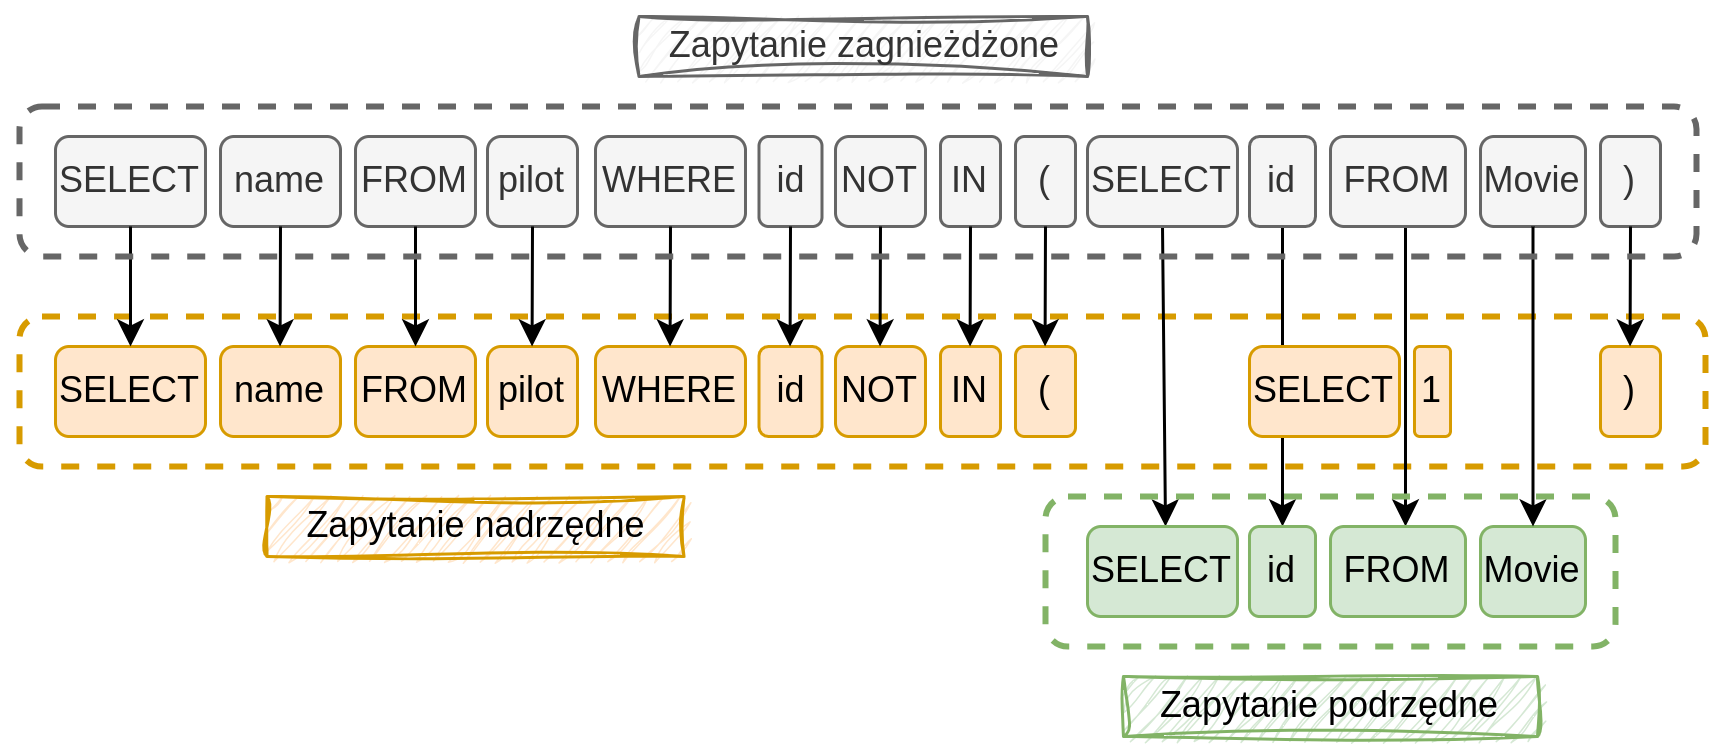
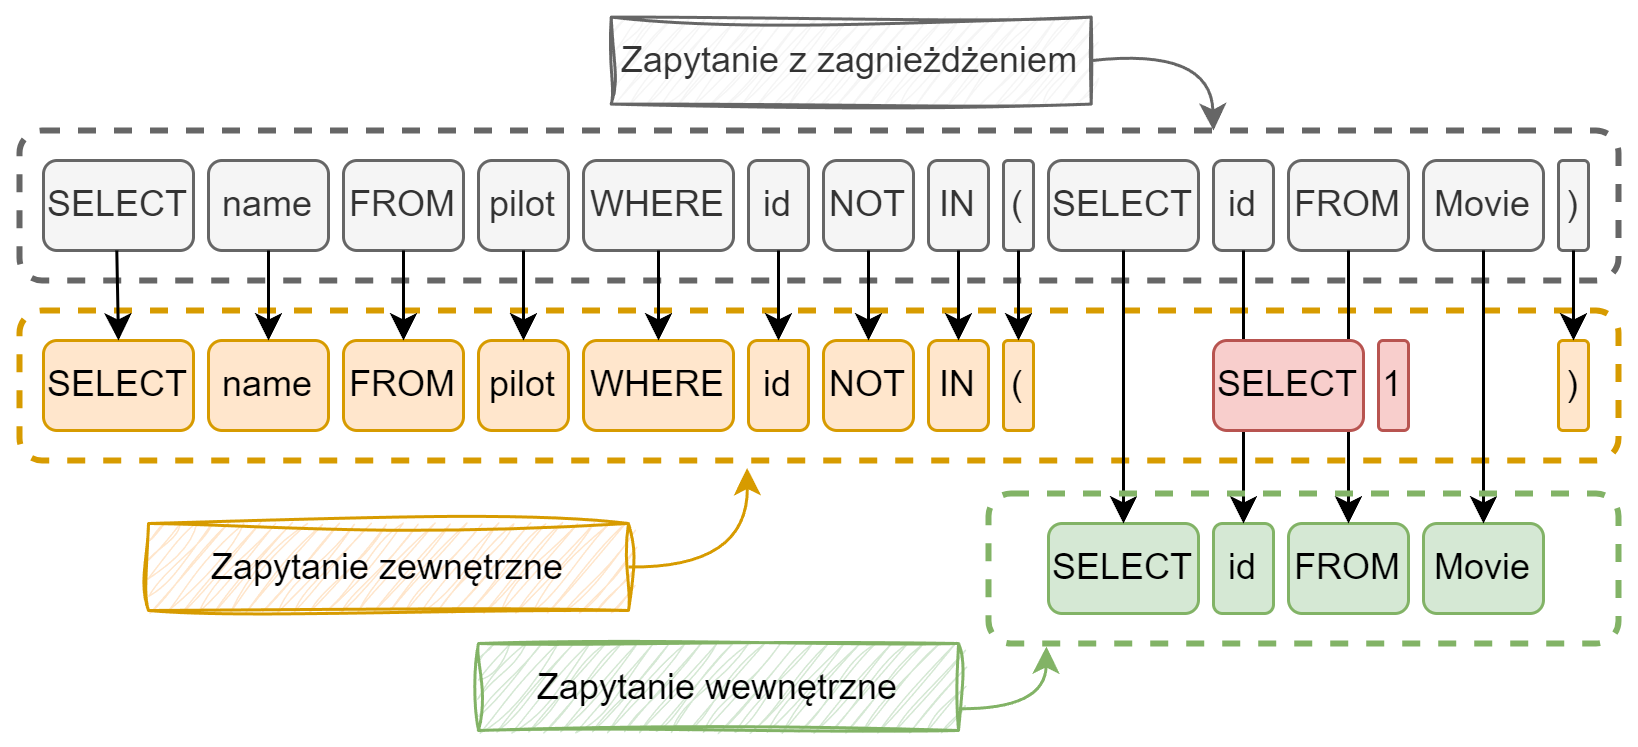
Update

Changed region(s): [[0.0, 0.0, 0.9963, 0.9853], [0.9652, 0.8313, 0.9963, 0.8621], [0.4359, 0.7082, 0.467, 0.739]]

diff --git a/chapters/tworzenie_zbiorow.tex b/chapters/tworzenie_zbiorow.tex
@@ -114,22 +114,11 @@ Zmiana nazw tabel i kolumn zgodnie z określonym mapowaniem to dla opracowanego 
 Zmodyfikowanie nazw tabel i kolumn w bazach danych nie stanowi dużego wyzwania, ponieważ wystarczy wykonać na każdej z nich serię instrukcji typu \sql{ALTER TABLE}. Przystępując do tego należy jednak upewnić się, że zastosowanie danego mapowanie nie tworzy konfliktujących ze sobą pod względem nazw elementów, bo wówczas operacja się nie powiedzie. Aby to sprawdzić oraz zlokalizować miejsca ewentualnych kolizji stworzony został skrypt, który analizuje podane mapowanie pod tym kątem. Podczas tłumaczenia zauważono także, że należy pomijać tabele o nazwie \code{sqlite\_sequence}, ponieważ jest to specjalna tabela i jej modyfikacja nie jest możliwa.
 
 \subsubsection{Modyfikacje w zapytaniach}
-Dokonanie podmiany nazw tabel i kolumn w zapytaniach SQL stanowi najtrudniejszy etap w całym procesie generowania zbiorów. Przyczyną tego jest przyjęte podejście polegające na tym, że dana kolumna może być przetłumaczona na różne sposoby, w zależności od tabeli w której się znajduję. W przypadku modyfikacji baz danych było oczywistym do której tabeli należy każda kolumna, bo wynika to z ich jasno zdefiniowanej struktury. Zapytania SQL są natomiast w gruncie rzeczy zwykłymi tekstami i wydobycie z nich kolumn oraz ustalenie tabel do których należą stanowi duże wyzwanie.
+Dokonanie podmiany nazw tabel i kolumn w zapytaniach SQL stanowi najtrudniejszy etap w całym procesie generowania zbiorów. Przyczyną tego jest przyjęte podejście polegające na tym, że dana kolumna może być przetłumaczona na różne sposoby, w zależności od tabeli w której się znajduję. W przypadku modyfikacji baz danych było oczywistym do której tabeli należy każda kolumna, bo wynika to z ich jasno zdefiniowanej struktury. Zapytania SQL są natomiast w gruncie rzeczy zwykłym tekstem i wydobycie z nich kolumn oraz ustalenie tabel do których należą stanowi duże wyzwanie.
 
-Najłatwiejsze podejście do tego problemu, ale posiadające istotny problem, wykorzystuje parsowanie zapytań do postaci drzewa AST (ang. Abstract Syntax Tree). Jest to sposób reprezentacji wyrażenia w języku formalnym, takim jak SQL, za pomocą drzewa, którego przykład został przedstawiony na rysunku \ref{fig:ast-example}. Można z niego wygodnie wydobywać różne informacje, czy też dokonywać modyfikacji. Warto więc na jego poziomie przeprowadzić tłumaczenia nazw, a następnie odwrócić proces parsowania i uzyskać dla zapytania zmodyfikowaną postać tekstową. W wykorzystanym języku Python istnieje popularna biblioteka \code{sqlglot}, która pozwala na wykonywanie tego typu operacji. 
+Najłatwiejsze podejście do tego problemu, ale posiadające istotny problem, wykorzystuje parsowanie zapytań do postaci drzew AST z użyciem przedstawionej wcześniej biblioteki \code{sqlglot}. Na poziomie drzewa można bowiem łatwo dokonać modyfikacji wszystkich nazw, bo ustalenie przynależności kolumn do tabel jest proste. Finalnie można przeprowadzić proces odwrotny do parsowania, czyli z postaci zmodyfikowanego drzewa zrekonstruować zapytanie, które będzie posiadało pożądane zmiany. Jak zostało sprawdzone, strategia ta rzeczywiście pozwala na skuteczne przetłumaczenie nazw schematu, jednak wspomnianym problemem jest to, że przetworzone zapytania różnią się od oryginałów formatowaniem i delikatnie zmienioną strukturą. Powodem jest to, że następujące po sobie etapy parsowania i rekonstrukcji z wykorzystaniem biblioteki \code{sqlglot} zachowują jedynie znaczenie zapytań, pozwalając sobie przy tym na delikatne modyfikacje zapisu. Zmienione zapytania odbiegają więc nadmiernie od oryginalnych i porównywanie stworzonego tak zbioru z oryginalnym mogło by być kwestionowane. Ponadto wiele algorytmów opiera się na specyficznym dla poszczególnych zbiorów formacie zapytań i jego modyfikacja doprowadziłaby do problemów z uruchomieniem wielu modeli. Z przytoczonych powodów porzucono to podejście.
 
-\begin{figure}[ht!]
-  \centering
-  \includegraphics[width=0.6\linewidth]{images/ast_example.png}
-  \caption{Drzewo AST dla przykładowego zapytania SQL}
-  \label{fig:ast-example}
-\end{figure}
-
-Wspomnianym problemem z wykorzystaniem AST jest to, że przetłumaczone z wykorzystaniem biblioteki \code{sqlglot} zapytania, chociaż pod względem semantycznym pozostają bez zmian, to modyfikacji ulega ich formatowanie - następuje zmiana sposobu nawiasowania, czy też stawiania białych znaków. Przekonwertowane w ten sposób zapytania odbiegają więc istotnie od oryginalnych i porównywanie takiego zbioru z oryginalnym \code{Spider} mogło by być kwestionowane. Ponadto wiele algorytmów opiera się na specyficznym dla zbioru \code{Spider} formacie zapytań i jego modyfikacja doprowadziła by do problemów z uruchomieniem wielu modeli. Z przytoczonych powodów porzucono to podejście.
-
-W celu dokonania modyfikacji schematu w zapytaniach, bez niepotrzebnego wpływania na ich strukturę, zdecydowano się ostatecznie zrobić to na niższym poziomie. W tym celu opracowano algorytm, który najpierw dokonuje tokenizacji zapytań, a następnie analizuje wszystkie tokeny po kolei i jeżeli trafi na nazwę kolumny lub tabeli to dokonuję podmiany na nową nazwę. Aby sprawdzić, czy dany token jest nazwą kolumny lub tabeli dokonywano parsowania zapytania do AST, następnie zmieniano dany token na inny i ponownie parsowano zapytanie do AST. Porównując ze sobą te dwa drzewa AST można było ustalić, czy zmodyfikowanym tokenem była nazwa tabeli, nazwa kolumny, czy żadne z powyższych.
-
-W celu przetłumaczenia nazwy kolumny należało dodatkowo ustalić, do jakiej tabeli ona należy. Aby to zrobić konieczne było rozpatrzenie trzech możliwych przypadków:
+W celu przetłumaczenia nazw w zapytaniach, bez niepotrzebnego wpływania na ich strukturę, zdecydowano się ostatecznie zrobić to na niższym poziomie. Opracowany został algorytm, który najpierw dokonuje tokenizacji zapytań, a następnie analizuje wszystkie tokeny po kolei i jeżeli wykryje nazwę tabeli bądź kolumny to podmienia ją na nową. Aby sprawdzić, czy dany token jest nazwą dokonywano parsowania zapytania do AST, następnie modyfikowano go na inny i ponownie parsowano zapytanie do AST. Porównując ze sobą dwa drzewa można było ustalić, czy zmodyfikowanym tokenem była nazwa tabeli, nazwa kolumny, czy żadne z powyższych. W przypadku nazw kolumn konieczne było dodatkowo ustalenie przynależności do tabeli. Wyróżniono tutaj trzy przypadki:
 
 \begin{enumerate}
     \item Nazwa kolumny poprzedzona nazwą tabeli (\sql{SELECT order.id FROM order})
@@ -137,10 +126,10 @@ W celu przetłumaczenia nazwy kolumny należało dodatkowo ustalić, do jakiej t
     \item Nazwa kolumny bez tabeli (\sql{SELECT id FROM order})
 \end{enumerate}
 
-Pierwszy scenariusz jest najprostszy, ponieważ nazwa tabeli jest jawnie podana i nie ma co do niej wątpliwości. Drugi przypadek jest bardziej skomplikowany ponieważ zamiast istniejącej nazwy tabeli wykorzystany został stworzony alias, więc wcześniej trzeba wydobyć z zapytania wszystkie aliasowania. Trzeci przypadek jest również trudny, ponieważ kolumna należy do jednej z wykorzystanych w zapytaniu tabel, więc trzeba wiedzieć dodatkowo jakie tabele są dostępne. Dla tych dwóch przypadków sytuację dodatkowo komplikuję fakt, że zapytania mogą być swobodnie zagnieżdżanie i łączone szeregowo za pomocą operatorów zbiorowych, co skutkuje tym, że w obrębie pojedynczego zapytania pojawiają się zakresy w których dostępne są różne tabele i różne aliasowania.
+Pierwszy scenariusz jest najprostszy, ponieważ nazwa tabeli jest jawnie podana i nie ma co do niej wątpliwości. Drugi przypadek jest bardziej skomplikowany ponieważ zamiast istniejącej nazwy tabeli wykorzystany został alias, więc wcześniej trzeba wydobyć z zapytania wszystkie aliasowania. Trzeci przypadek jest również trudny, ponieważ kolumna należy do jednej z wykorzystanych w zapytaniu tabel, więc trzeba wiedzieć dodatkowo jakie tabele są dostępne. Dla tych dwóch przypadków sytuację dodatkowo komplikuję fakt, że zapytania mogą być swobodnie zagnieżdżanie i łączone szeregowo za pomocą operatorów zbiorowych, co skutkuje tym, że w obrębie pojedynczego zapytania pojawiają się zakresy w których dostępne są różne tabele i różne aliasowania.
 
-Aby poradzić sobie z ustaleniem przynależności kolumn do tabel w skomplikowanych zapytaniach postanowiono więc dokonywać rekurencyjnego rozbijania składających się na nie tokenów, przekazując przy tym kontekst mówiący o obowiązującym aliasowaniu z zapytań nadrzędnych do podrzędnych. Zostało to zilustrowane na rysunkach 
-\ref{fig:query-decomposition-serial} oraz \ref{fig:query-decomposition-nested}. Przedstawiają one odpowiednio dekompozycję zapytania zawierającego operator zbiorowy oraz dekompozycję zapytania z zagnieżdżeniem. W tym drugim przypadku miejsce zapytania podrzędnego jest zastępowane poprzez fragment \sql{SELECT 1}, aby zapewnić strukturalną poprawność obu wynikowych zapytań. W wyniku tego procesu otrzymywany jest zbiór elementarnych zapytań wraz z obowiązującymi wewnątrz nich kontekstami, co pozwala na łatwą modyfikację tokenów odpowiadających za nazwy tabel i kolumn. Jako, że pierwotnym źródłem tych tokenów jego wejściowe, skomplikowane zapytanie to również ono jest tłumaczone - niejako jako efekt uboczny, lecz jest to celowym zamierzeniem.
+Aby poradzić sobie z ustaleniem przynależności kolumn do tabel w skomplikowanych zapytaniach postanowiono dokonywać rekurencyjnego rozbijania składających się na nie tokenów na zapytania prostsze. Przekazywany jest przy tym kontekst mówiący o obowiązującym aliasowaniu z zapytań zewnętrznych do wewnętrznych. Zostało to zilustrowane na rysunkach 
+\ref{fig:query-decomposition-serial} oraz \ref{fig:query-decomposition-nested}. Przedstawiają one odpowiednio dekompozycję zapytania zawierającego operator zbiorowy oraz dekompozycję zapytania z zagnieżdżeniem. W tym drugim przypadku miejsce zapytania podrzędnego jest zastępowane poprzez fragment \sql{SELECT 1}, aby zapewnić strukturalną poprawność obu wynikowych instrukcji. W wyniku takiego procesu rekurencyjnego rozbijania otrzymywany jest zbiór elementarnych zapytań wraz z obowiązującymi wewnątrz nich kontekstami, co pozwala na łatwe przetłumaczenie ich tokenów odpowiadających nazwą tabel i kolumn. Jako, że pierwotnym źródłem tych tokenów jego wejściowe, skomplikowane zapytanie to również ono jest tłumaczone - niejako jako efekt uboczny, lecz było to celowym zamierzeniem od samego początku.
 
 % Podczas tego procesu kontekst z zapytań nadrzędnych, jest przekazywany do zapytań podrzędnych, aby utrzymywać przez cały czas informację o dostępnych w danej części zapytania aliasowaniach.
 
@@ -154,7 +143,7 @@ Aby poradzić sobie z ustaleniem przynależności kolumn do tabel w skomplikowan
 \begin{figure}[ht!]
   \centering
   \includegraphics[width=1.0\linewidth]{images/query_decomposition_nested.png}
-  \caption{Metoda dekomponowania zapytań zagnieżdżonych}
+  \caption{Metoda dekomponowania zapytań z zagnieżdżeniem}
   \label{fig:query-decomposition-nested}
 \end{figure}
 

diff --git a/chapters/narzedzia.tex b/chapters/narzedzia.tex
@@ -20,11 +20,23 @@ Najbardziej pożądaną podczas realizacji niniejszej pracy funkcją okazało si
 
 \begin{figure}[ht!]
   \centering
-  \includegraphics[width=0.6\linewidth]{images/ast_example.png}
+  \includegraphics[width=0.55\linewidth]{images/ast_example.png}
   \caption{Drzewo AST dla przykładowego zapytania SQL}
   \label{fig:sql-ast-example}
 \end{figure}
 
-\fsection{Microsoft Visual Studio Code}
+\section{Visual Studio Code}
+Visual Studio Code to wszechstronny edytor stworzony przez Microsoft. Zgodnie z tegoroczną ankietą \bibtitle{2023 Developer Survey} \cite{stackoverflow-survey} przeprowadzoną przez Stack Overflow jest on najczęściej wybieranym przez deweloperów środowiskiem programistycznym. Tym co je wyróżnia jest prostota przy jednoczesnej potędze płynącej z niespotykanej elastyczności. Dostępna jest bowiem ogromna liczba łatwych w instalacji rozszerzeń. Pozwalają one dostosować to środowisko niemal do każdego możliwego scenariusza wykorzystania.
 
-\fsection{Docker}
+Podczas realizacji pracy szczególnie użyteczne okazały się rozszerzenia dla języka Python dodające kolorowanie składni, dokończanie kodu, debugowanie, czy też wsparcie dla interaktywnych notesów Jupyter. Poza tym intensywnie wykorzystywane było rozszerzenie do pracy z narzędziem Docker. Jeśli chodzi o podstawowe funkcje środowiska to bardzo użyteczna okazała się integracja z systemem kontroli wersji oraz zaawansowane wyszukiwanie i zastępowanie.
+
+\section{Docker}
+Docker to bardzo potężne i powszechnie wykorzystywane narzędzie na którym opiera się znaczna część funkcjonującego oprogramowania. Umożliwia on tworzenie, zarządzanie i uruchamianie aplikacji w izolowanych kontenerach. Pozwalają one deweloperom na zapakowanie aplikacji z zależnościami i środowiskiem uruchomieniowym, co zapewnia spójność działania na różnych platformach.
+
+Podczas realizacji niniejszego projektu Docker okazał się szczególnie użyteczny w kontekście uruchamiania istniejących modeli uczenia maszynowego. Część z nich była od razu gotowa do działania w kontenerze, a inne zostały przystosowane. Okres czasu w którym te rozwiązania powstawały jest bowiem bardzo rozległy, więc zależności z których korzystają znacznie się różnią i trudno jest je ze sobą pogodzić. W przypadku różnic jedynie w pakietach języka Python możliwe by było skorzystanie ze znacznie prostszego narzędzia \code{conda}, lecz poziom izolacji tworzonych za jego pomocą środowisk jest znacznie ograniczony i jak się okazało niewystarczający.
+
+\begin{comment}
+Inne narzędzia:
+- git
+- conda
+\end{comment}
